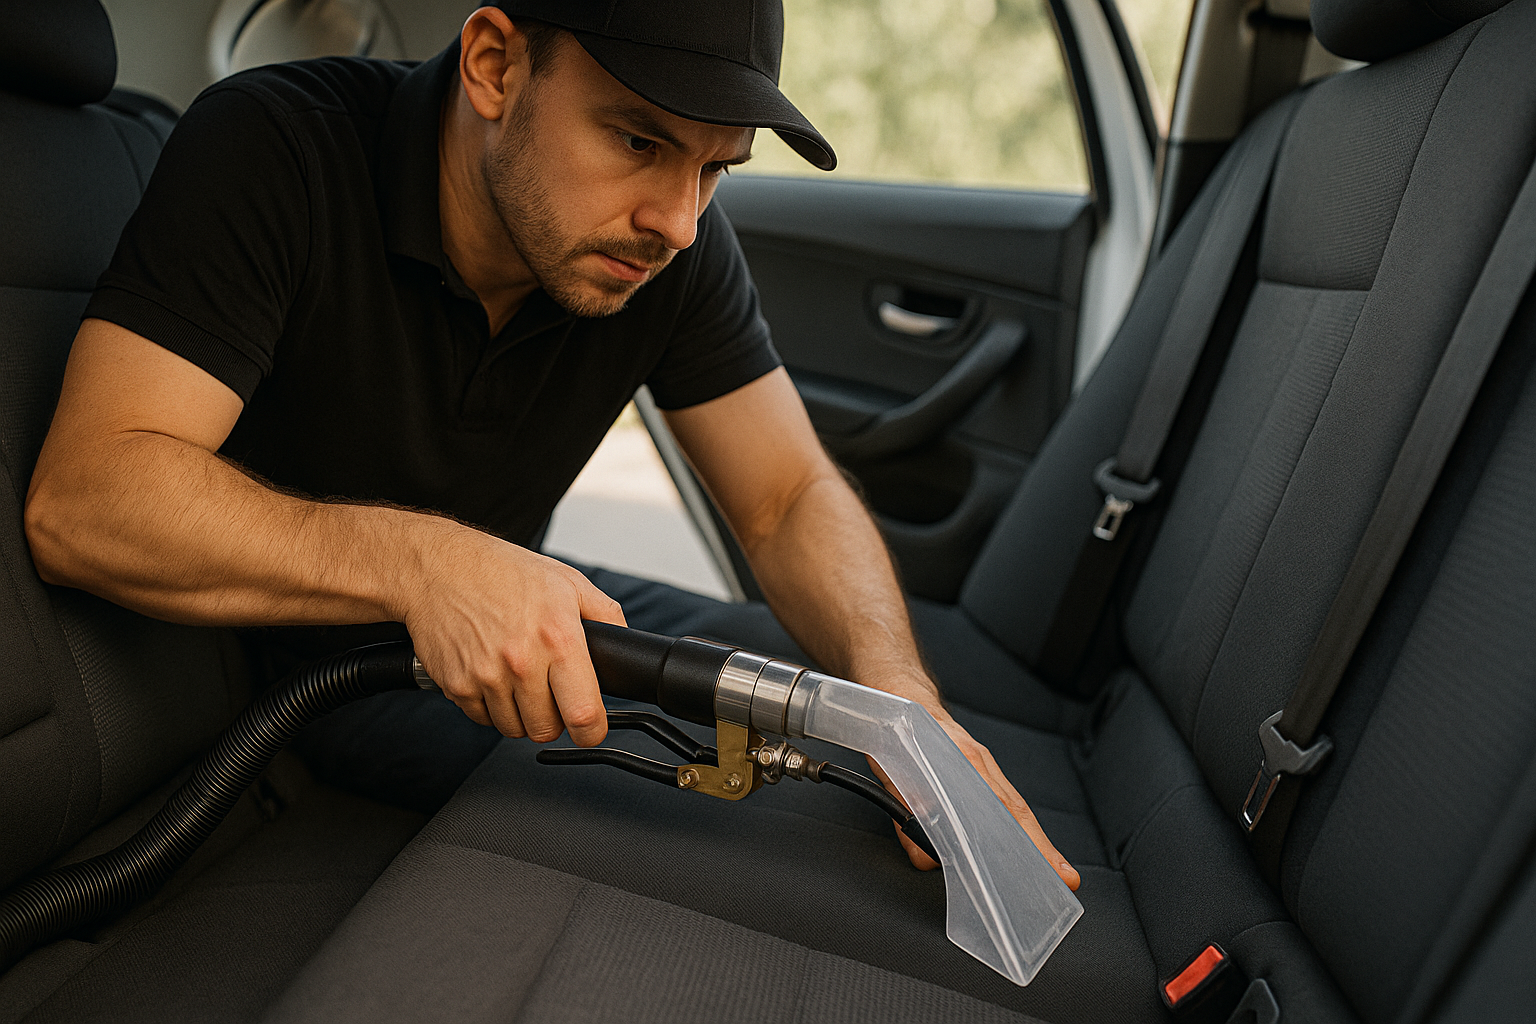
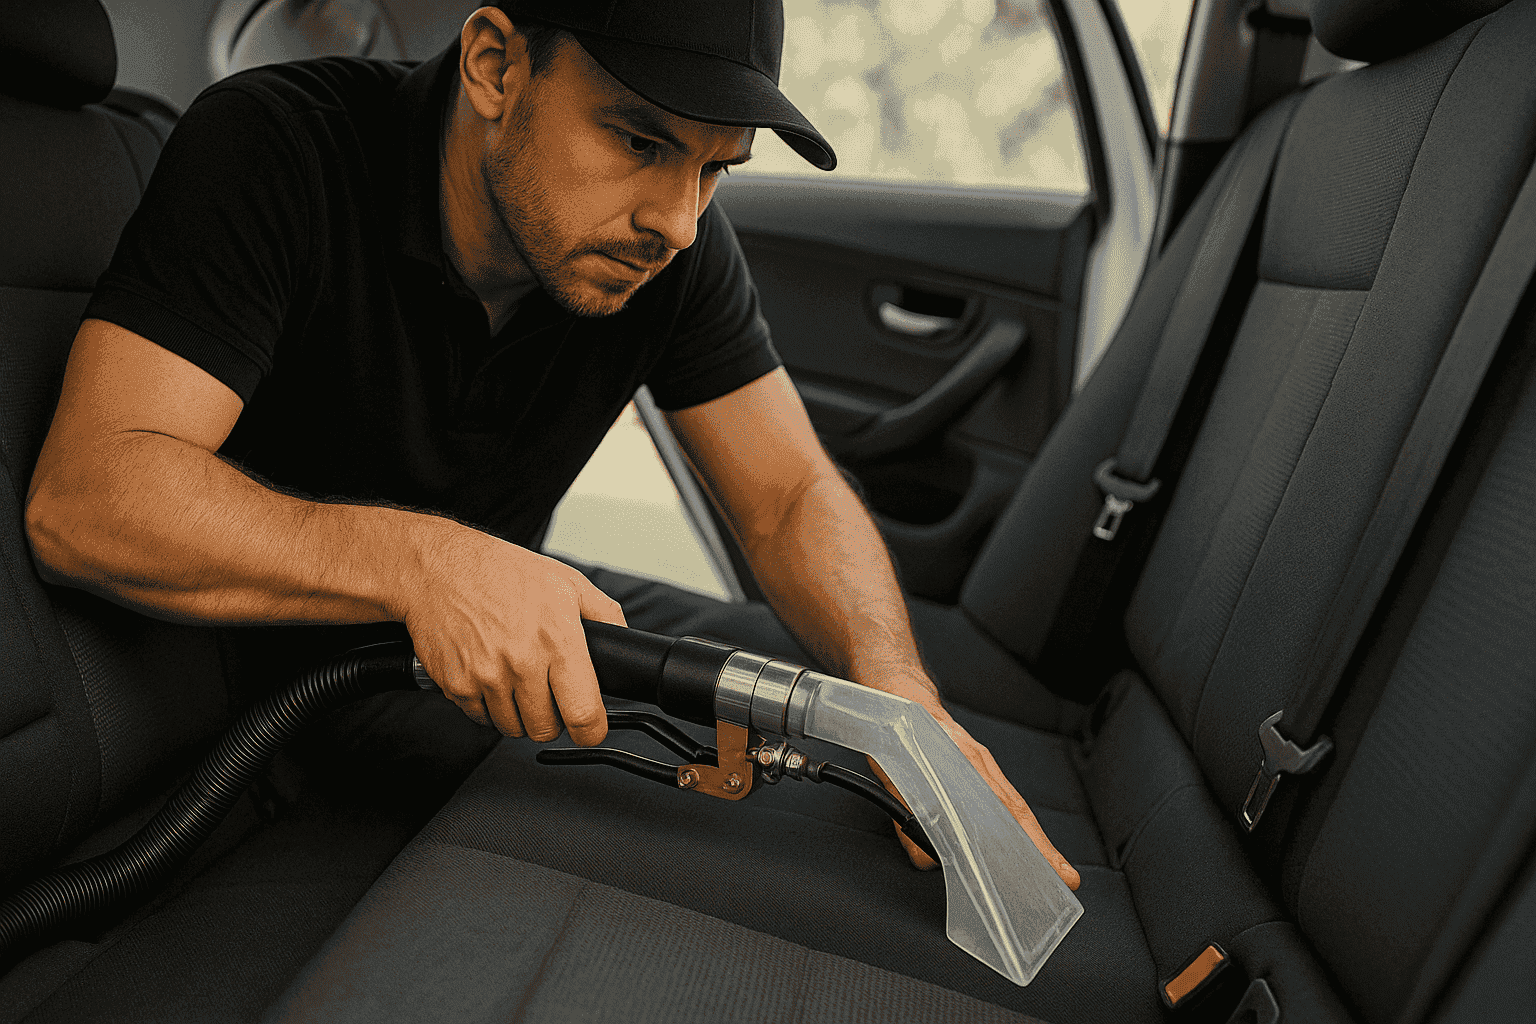
Changed vite config and extractor hero image.

diff --git a/myst_frontend/vite.config.ts b/myst_frontend/vite.config.ts
@@ -4,4 +4,20 @@ import react from '@vitejs/plugin-react-swc'
 // https://vite.dev/config/
 export default defineConfig({
   plugins: [react()],
+  build: {
+    rollupOptions: {
+      output: {
+        manualChunks(id) {
+          if (id.includes('node_modules')) {
+            if (id.includes('react') || id.includes('react-dom')) return 'vendor-react'
+            if (id.includes('@mantine')) return 'vendor-mantine'
+            if (id.includes('@emotion')) return 'vendor-emotion'
+            if (id.includes('zustand')) return 'vendor-state'
+            if (id.includes('react-router')) return 'vendor-router'
+            return 'vendor'
+          }
+        },
+      },
+    },
+  }
 })
